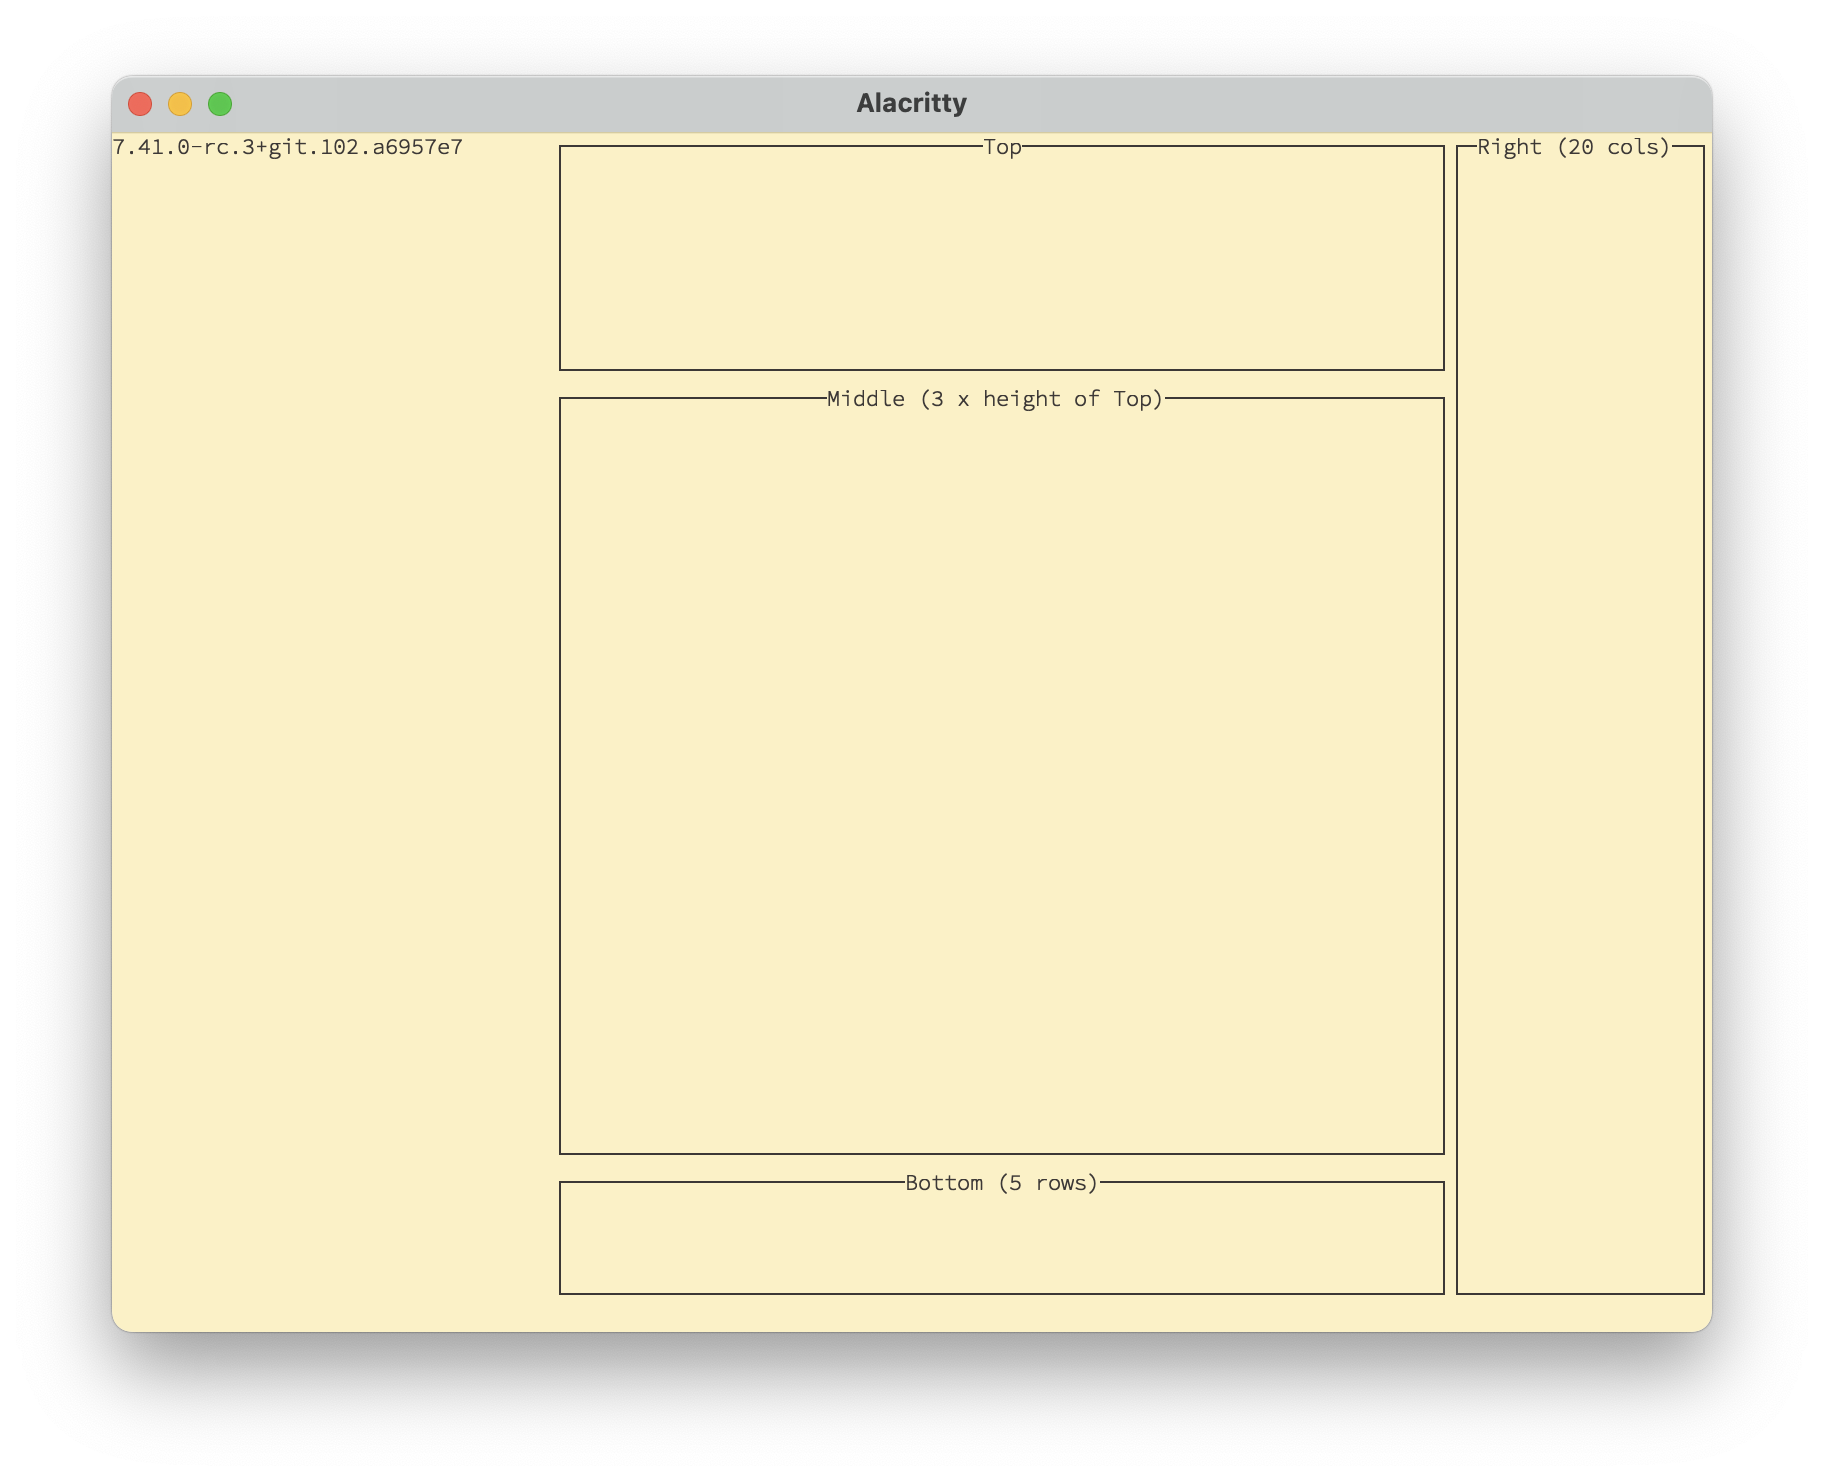
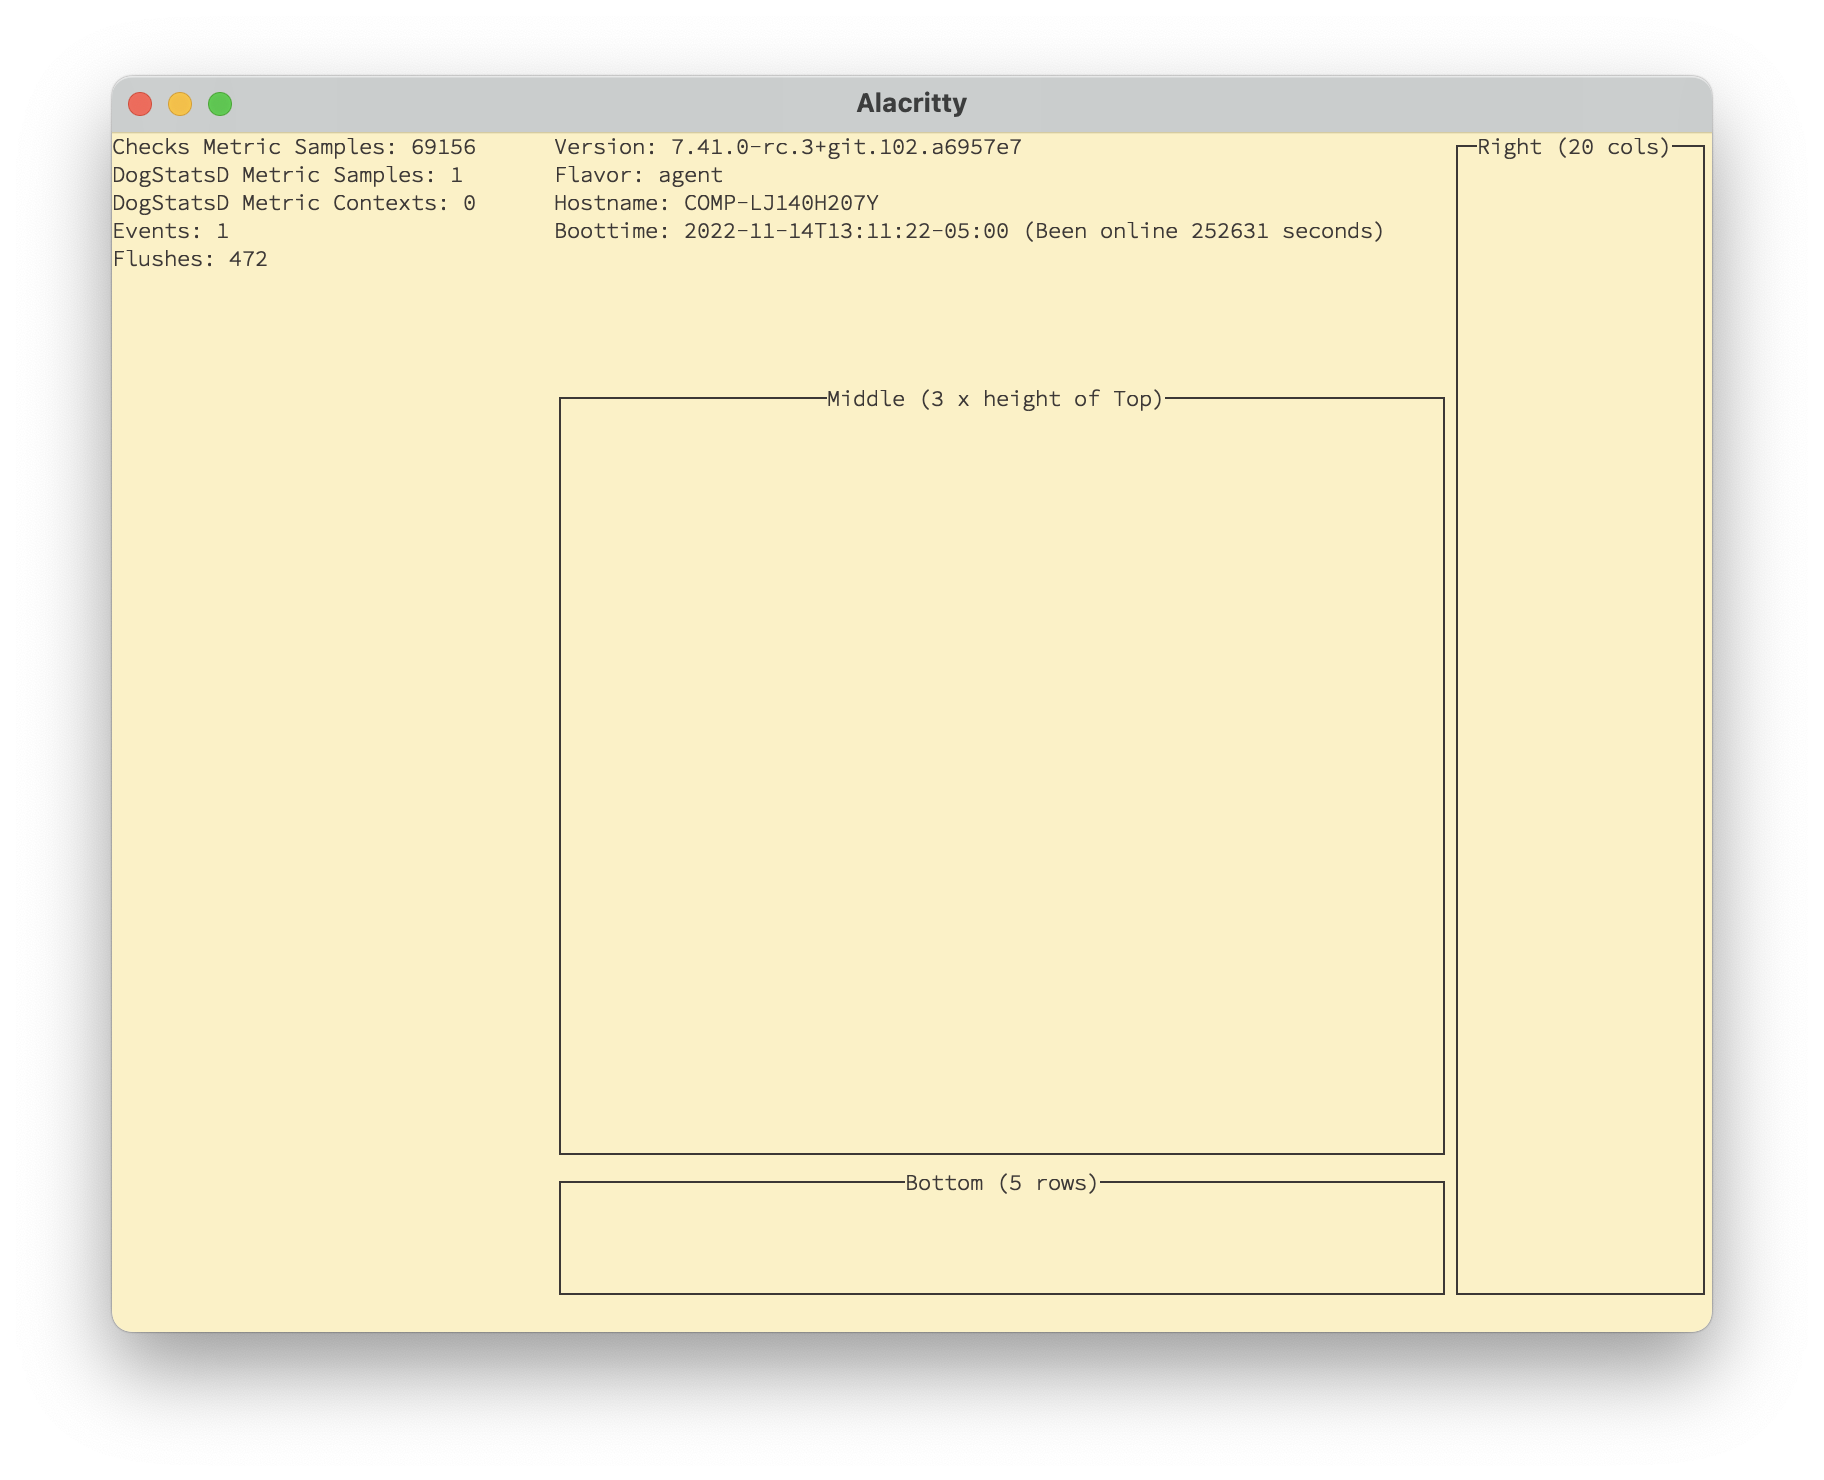
Adds some basic metadata and some metric aggregator stats

Changed region(s): [[0.3125, 0.0932, 0.5625, 0.1554], [0.0625, 0.0932, 0.25, 0.1865]]

diff --git a/gui.go b/gui.go
@@ -2,6 +2,7 @@ package main
 
 import (
 	"fmt"
+	"time"
 
 	"github.com/rivo/tview"
 )
@@ -12,12 +13,87 @@ type IStatusApp struct {
 }
 
 func (is *IStatusApp) getStatusText() *tview.TextView {
-	tv := tview.NewTextView().SetChangedFunc(func() {
-		is.app.Draw()
-	})
+	tv := tview.NewTextView()
 
 	statusObj := is.df.statusJson()
-	fmt.Fprintf(tv, statusObj["version"].(string))
+	/*
+
+		{
+		  "ChecksHistogramBucketMetricSample": 0,
+		  "ChecksMetricSample": 66355,
+		  "ContainerLifecycleEvents": 0,
+		  "ContainerLifecycleEventsErrors": 0,
+		  "DogstatsdContexts": 0,
+		  "DogstatsdContextsByMtype": {
+			"Count": 0,
+			"Counter": 0,
+			"Distribution": 0,
+			"Gauge": 0,
+			"Histogram": 0,
+			"Historate": 0,
+			"MonotonicCount": 0,
+			"Rate": 0,
+			"Set": 0
+		  },
+		  "DogstatsdMetricSample": 1,
+		  "Event": 1,
+		  "EventPlatformEvents": {},
+		  "EventPlatformEventsErrors": {},
+		  "EventsFlushErrors": 0,
+		  "EventsFlushed": 1,
+		    },
+		  "HostnameUpdate": 0,
+		  "MetricTags": {
+			"Series": {
+			  "Above100": 0,
+			  "Above90": 0
+			},
+			"Sketches": {
+			  "Above100": 0,
+			  "Above90": 0
+			}
+		  },
+		  "NumberOfFlush": 452,
+		  "OrchestratorManifests": 0,
+		  "OrchestratorManifestsErrors": 0,
+		  "OrchestratorMetadata": 0,
+		  "OrchestratorMetadataErrors": 0,
+		  "SeriesFlushErrors": 0,
+		  "SeriesFlushed": 61211,
+		  "ServiceCheck": 3186,
+		  "ServiceCheckFlushErrors": 0,
+		  "ServiceCheckFlushed": 3631,
+		  "SketchesFlushErrors": 0,
+		  "SketchesFlushed": 0
+	*/
+	aggregator := statusObj["aggregatorStats"].(map[string]any)
+
+	fmt.Fprintf(tv, "Checks Metric Samples: %.f\n", aggregator["ChecksMetricSample"].(float64))
+	fmt.Fprintf(tv, "DogStatsD Metric Samples: %.f\n", aggregator["DogstatsdMetricSample"].(float64))
+	fmt.Fprintf(tv, "DogStatsD Metric Contexts: %.f\n", aggregator["DogstatsdContexts"].(float64))
+	fmt.Fprintf(tv, "Events: %.f\n", aggregator["Event"].(float64))
+	fmt.Fprintf(tv, "Flushes: %.f\n", aggregator["NumberOfFlush"].(float64))
+
+	return tv
+}
+
+func (is *IStatusApp) getAgentMetadata() *tview.TextView {
+	tv := tview.NewTextView()
+	statusObj := is.df.statusJson()
+	meta := statusObj["agent_metadata"].(map[string]any)
+	hostinfo := statusObj["hostinfo"].(map[string]any)
+	fmt.Fprintf(tv, "Version: %s\n", meta["agent_version"].(string))
+	fmt.Fprintf(tv, "Flavor: %s\n", meta["flavor"].(string))
+	fmt.Fprintf(tv, "Hostname: %s\n", hostinfo["hostname"].(string))
+
+	if boottimeInt, ok := hostinfo["bootTime"].(float64); ok {
+		boottime := time.Unix(int64(boottimeInt), 0)
+		fmt.Fprintf(tv, "Boottime: %s", boottime.Format(time.RFC3339))
+		if uptimeFloat, ok := hostinfo["uptime"].(float64); ok {
+			fmt.Fprintf(tv, " (Been online %.f seconds)", uptimeFloat)
+		}
+		fmt.Fprintf(tv, "\n")
+	}
 
 	return tv
 }
@@ -26,7 +102,7 @@ func (is *IStatusApp) getRoot() *tview.Flex {
 	flex := tview.NewFlex().
 		AddItem(is.getStatusText(), 0, 1, false).
 		AddItem(tview.NewFlex().SetDirection(tview.FlexRow).
-			AddItem(tview.NewBox().SetBorder(true).SetTitle("Top"), 0, 1, false).
+			AddItem(is.getAgentMetadata(), 0, 1, false).
 			AddItem(tview.NewBox().SetBorder(true).SetTitle("Middle (3 x height of Top)"), 0, 3, false).
 			AddItem(tview.NewBox().SetBorder(true).SetTitle("Bottom (5 rows)"), 5, 1, false), 0, 2, false).
 		AddItem(tview.NewBox().SetBorder(true).SetTitle("Right (20 cols)"), 20, 1, false)
